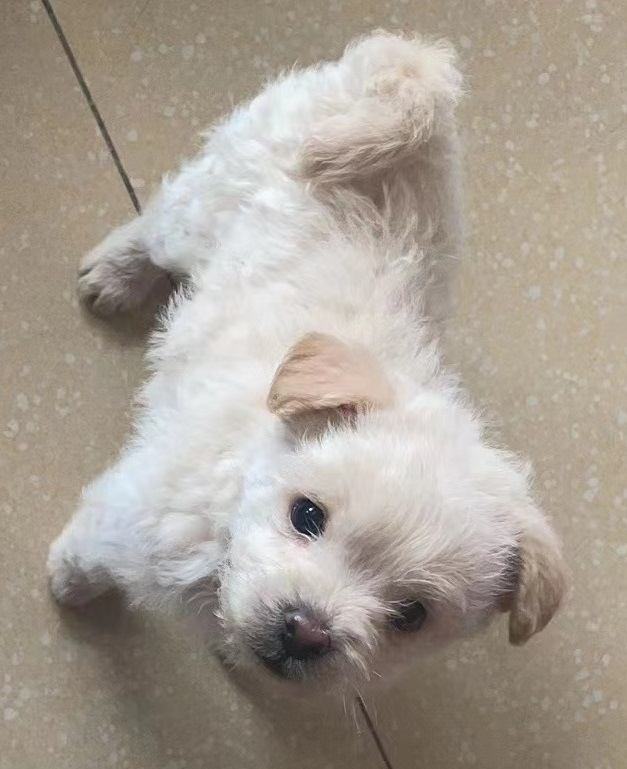
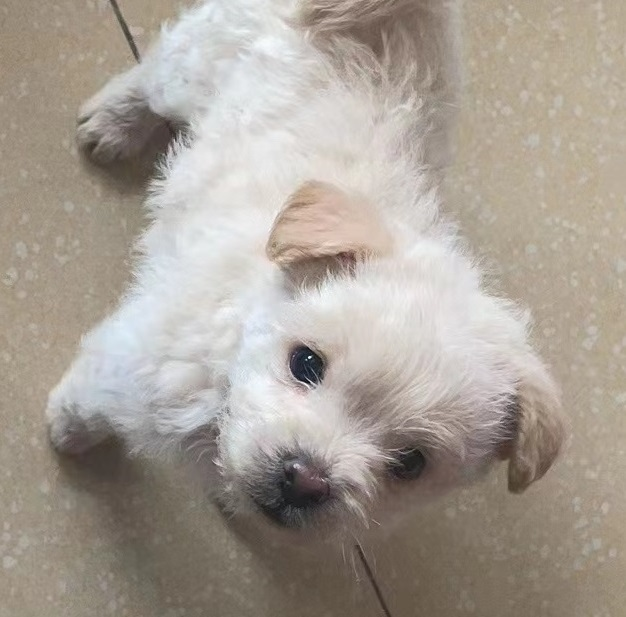
1

diff --git a/hobbies.md b/hobbies.md
@@ -30,7 +30,7 @@ I previously enjoyed long-distance running and computer game developing/playing.
 They are all my love. The white one is Bai Xiao(小白), the other one is lucky(幸运).
 
 <div class="second">
-<img src="/images/bai.jpg" class="floatpic" width="627" height="769">
+<img src="/images/bai.jpg" class="floatpic" width="626" height="617">
 <img src="/images/lucky.jpg" class="floatpic" width="609" height="593">
 </div>
 <br>
